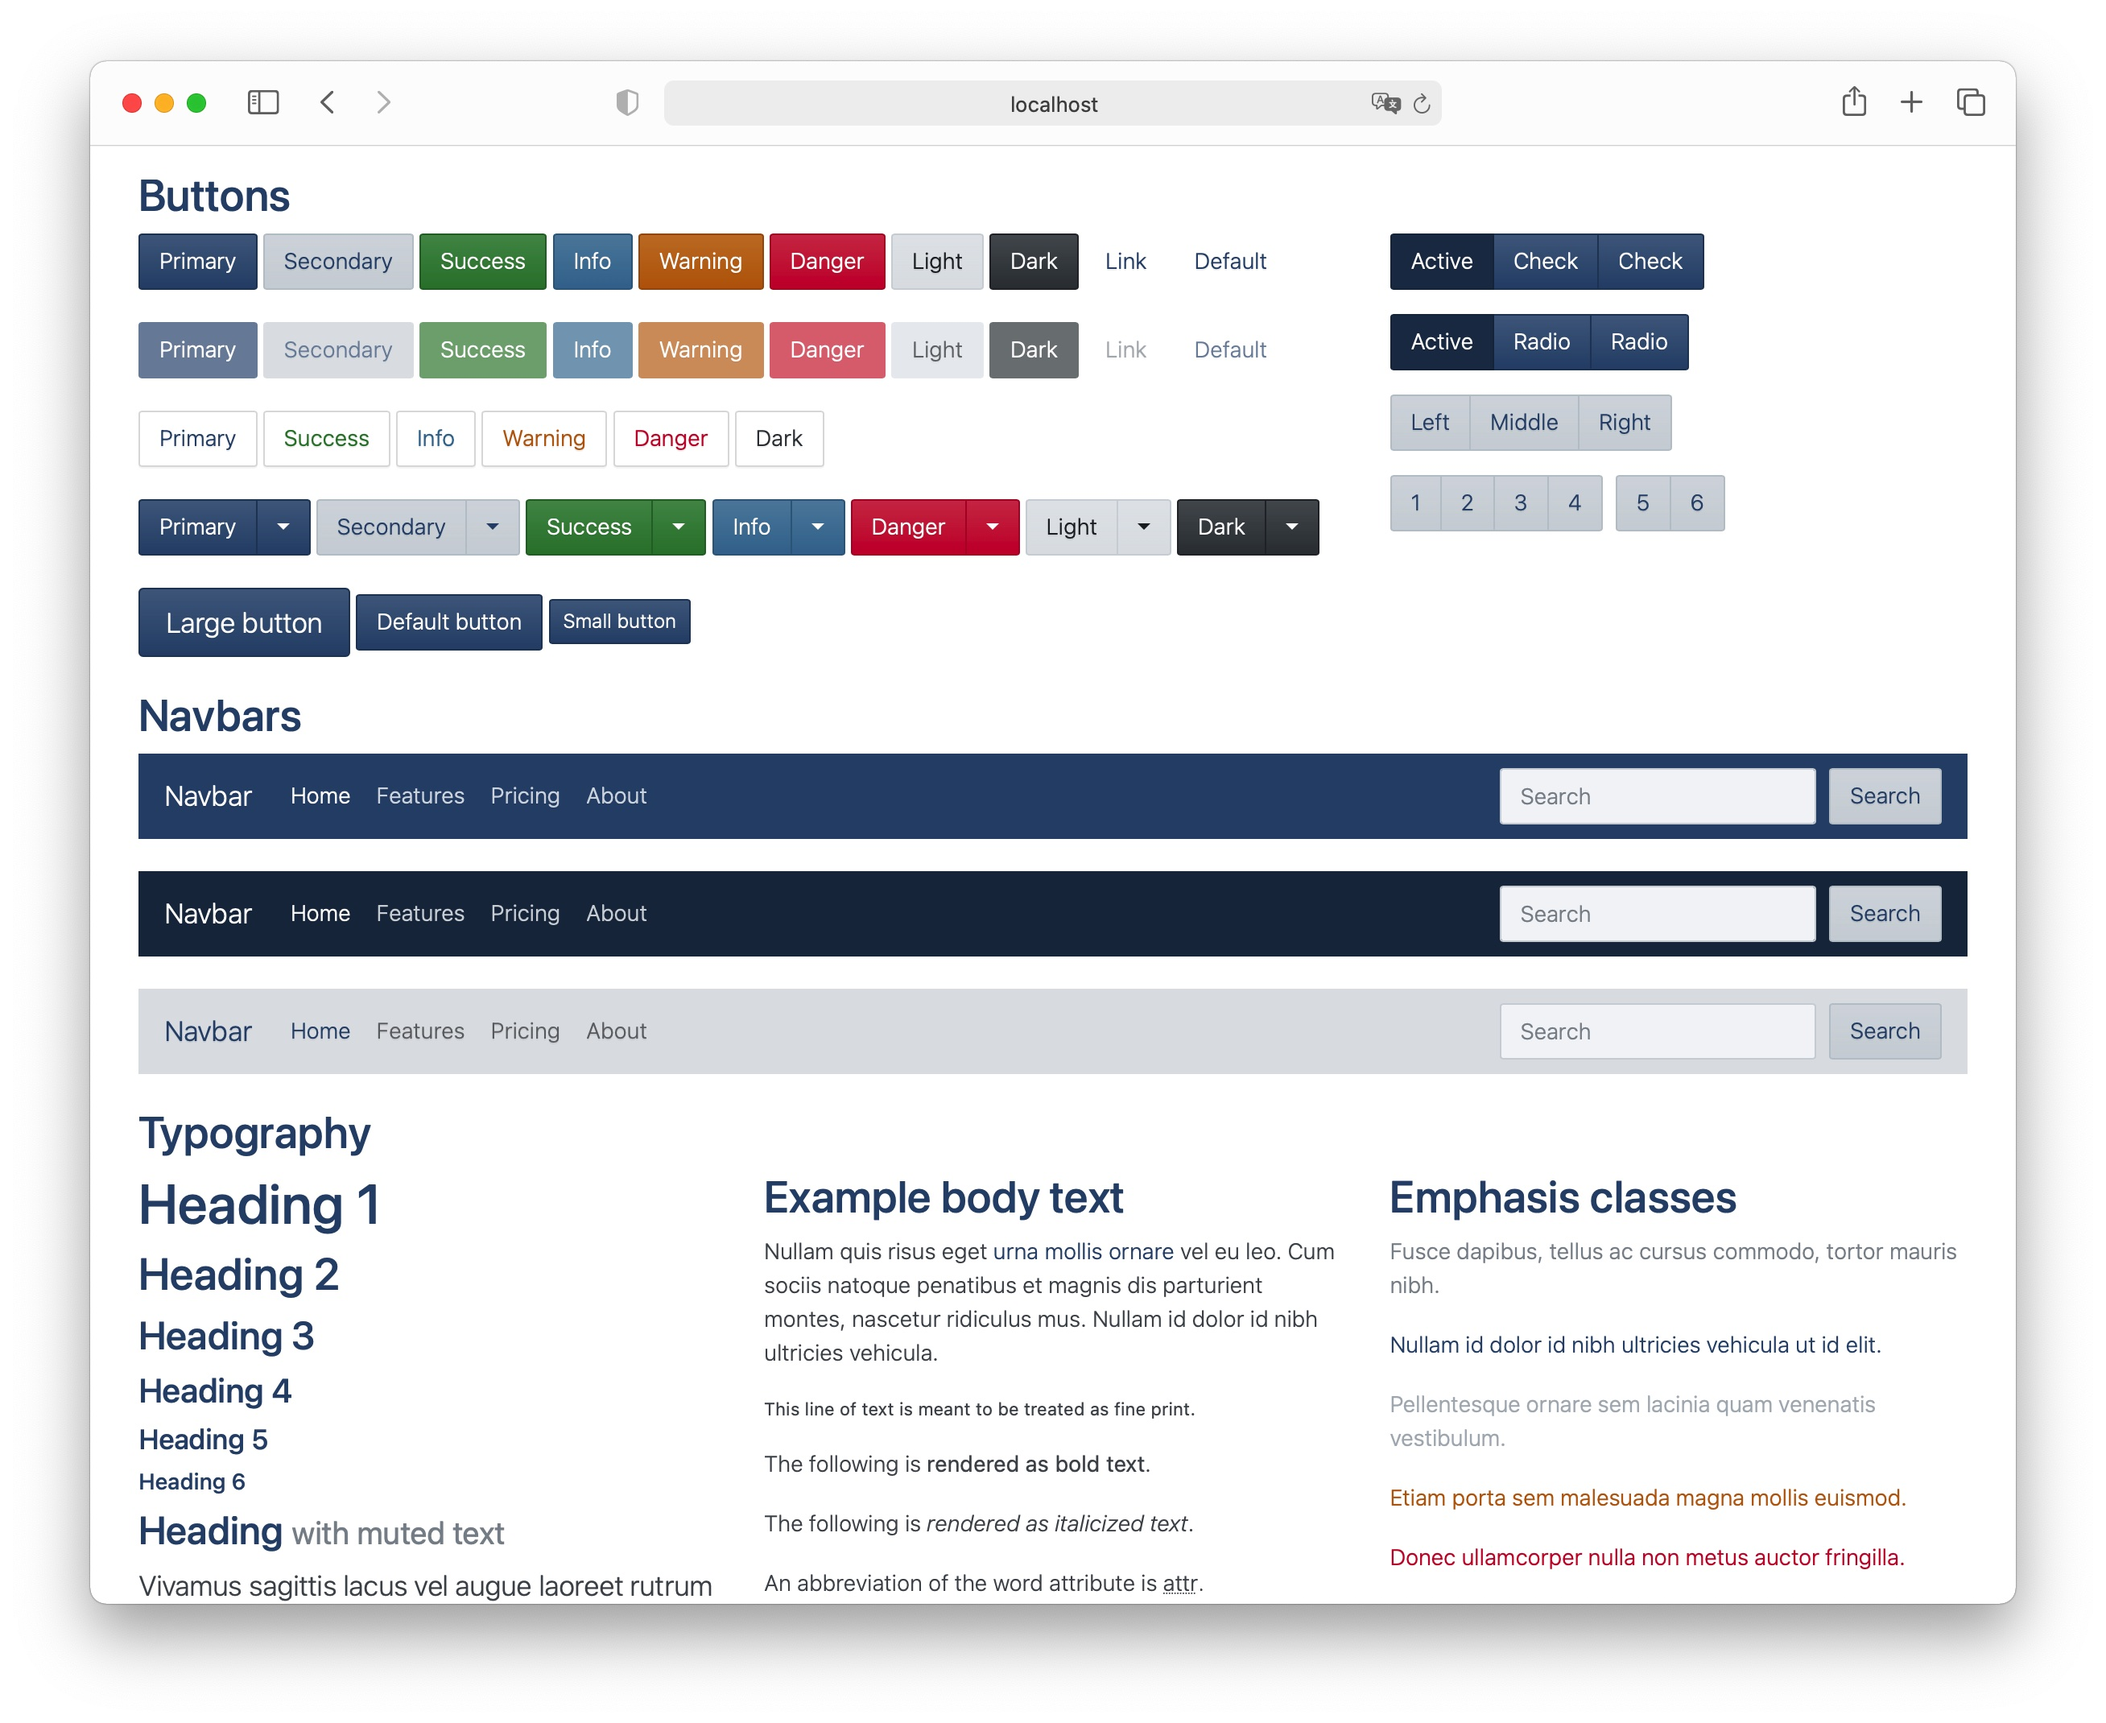
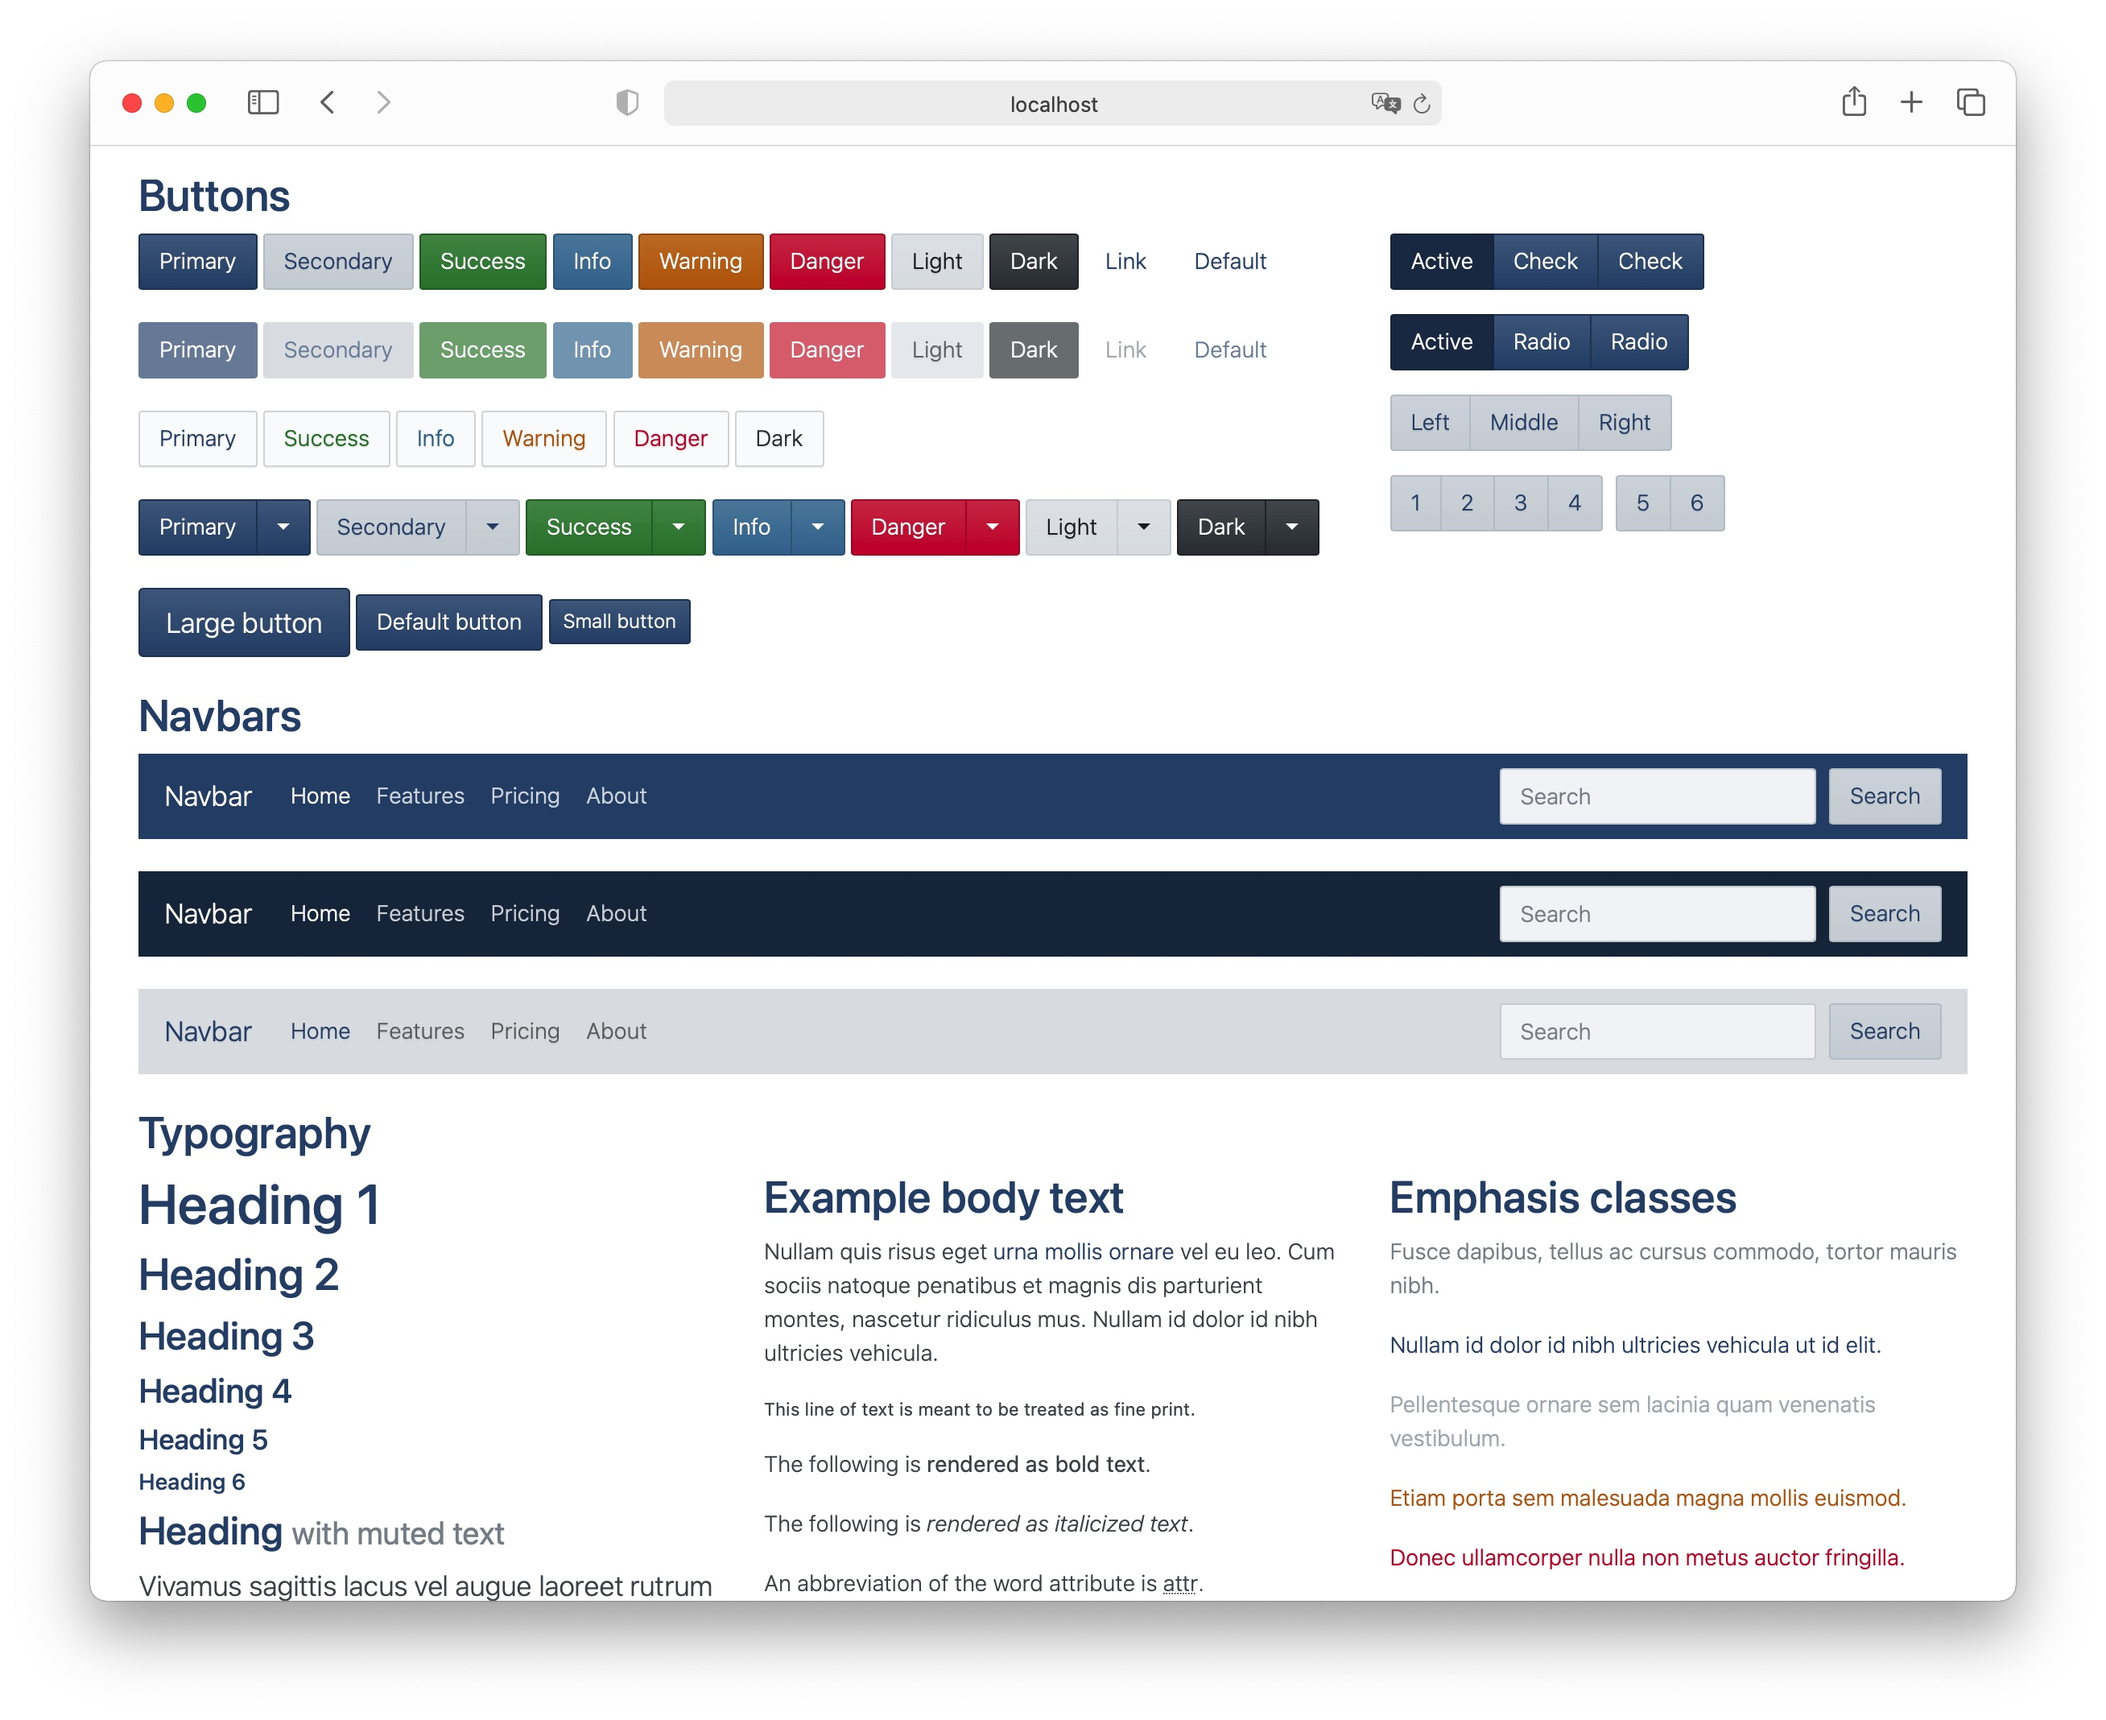
fix: outline button styles

diff --git a/scss/_styles.scss b/scss/_styles.scss
@@ -166,18 +166,19 @@ $custom-input-active-box-shadow: inset 0 0 2px $gray-700;
 
 @mixin custom-button-outline-variant($color, $color-hover: color-yiq($color), $active-background: $color, $active-border: $color) {
   $outline-btn-border-color: rgba(27, 31, 35, .15);
-  $outline-btn-background-color: #f3f4f6;
+  $outline-btn-background-color: #fafbfc;
   $color-btn-shadow: 0 1px 0 rgba(27, 31, 35, .04);
   $color-btn-inset-shadow: inset 0 1px 0 hsla(0, 0%, 100%, .25);
 
   color: $color;
   border-color: $outline-btn-border-color;
   box-shadow: $color-btn-shadow, $color-btn-inset-shadow;
+  background-color: $outline-btn-background-color;
 
   @include hover {
     color: $color;
-    background-color: $outline-btn-background-color;
-    border-color: darken($outline-btn-border-color, 1);
+    background-color: darken($outline-btn-background-color, 2);
+    border-color: darken($outline-btn-border-color, 2);
   }
 
   &:focus,
@@ -196,7 +197,7 @@ $custom-input-active-box-shadow: inset 0 0 2px $gray-700;
   .show > &.dropdown-toggle {
     color: $color;
     background-color: darken($outline-btn-background-color, 4);
-    border-color: $outline-btn-border-color;
+    border-color: darken($outline-btn-border-color, 4);
 
     &:focus {
       // Avoid using mixin so we can pass custom focus shadow properly
